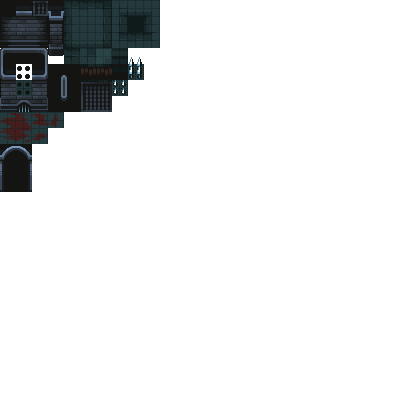
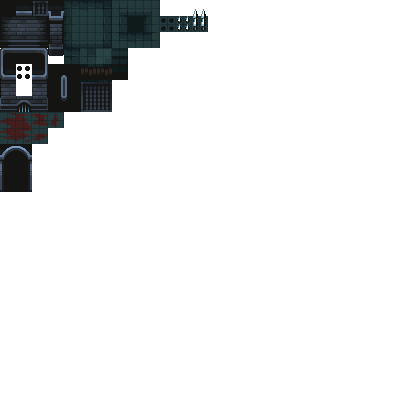
Adds traps

Changed region(s): [[0.39, 0.03, 0.54, 0.09], [0.27, 0.15, 0.36, 0.24], [0.03, 0.18, 0.09, 0.24]]

diff --git a/src/js/level/levels.js b/src/js/level/levels.js
@@ -11,7 +11,10 @@ const levels = [{
   height: 30,
 
   player: {x: 60, y: 400},
-  enemies: [{x: 48, y: 80}, {x: 400, y: 96}, {x: 150, y: 262 }, {x: 416, y: 336 }],
+  enemies: [{x: 48, y: 80}, {x: 400, y: 88}, {x: 160, y: 224 }, {x: 416, y: 336 }],
+  traps: [{x: 48, y: 192}, {x: 64, y: 192}, {x: 80, y: 192},
+          {x: 48, y: 304}, {x: 64, y: 304}, {x: 80, y: 304}
+  ],
   sx: 0,
   sy: 210,
 
@@ -23,21 +26,21 @@ const levels = [{
       0, 0, 0, 0, 0, 0, 0, 0, 0, 0, 0, 0, 0, 0, 0, 0, 0, 0, 0, 0, 0, 0, 0, 0, 0, 0, 0, 0, 0, 0,
       0, 0, 0, 0, 0, 0, 0, 0, 0, 0, 0, 0, 0, 0, 0, 0, 0, 0, 0, 0, 0, 0, 0, 0, 0, 0, 0, 0, 0, 0,
       0, 0, 0, 0, 0, 0, 0, 0, 0, 0, 0, 0, 0, 0, 0, 0, 0, 0, 0, 0, 0, 0, 0, 0, 0, 0, 0, 0, 0, 0,
-      0, 0, 0, 0, 0, 0, 0, 0, 0, 0, 0, 0, 0, 0, 0, 0, 76, 77, 78, 0, 0, 0, 0, 0, 0, 0, 0, 0, 0, 0,
-      0, 0, 0, 0, 0, 0, 0, 0, 0, 0, 0, 0, 0, 0, 0, 0, 101, 2, 103, 0, 0, 0, 0, 0, 0, 0, 0, 0, 0, 0,
+      0, 0, 0, 0, 0, 0, 0, 0, 0, 0, 0, 0, 0, 0, 0, 0, 0, 0, 0, 0, 0, 0, 0, 0, 0, 0, 0, 0, 0, 0,
+      0, 0, 0, 0, 0, 0, 0, 0, 0, 0, 0, 0, 0, 0, 0, 0, 0, 0, 76, 77, 78, 0, 0, 0, 0, 0, 0, 0, 0, 0,
+      0, 0, 0, 0, 0, 0, 0, 0, 0, 0, 0, 0, 0, 0, 0, 0, 0, 0, 101, 2, 103, 0, 0, 0, 0, 0, 0, 0, 0, 0,
       0, 0, 0, 0, 0, 0, 0, 0, 0, 0, 0, 0, 0, 0, 0, 0, 0, 0, 0, 0, 0, 0, 0, 0, 0, 0, 0, 0, 0, 0,
       0, 0, 0, 0, 0, 0, 0, 0, 0, 0, 0, 0, 0, 0, 0, 0, 0, 0, 0, 0, 0, 0, 0, 0, 0, 0, 0, 0, 0, 0,
       0, 0, 0, 0, 0, 0, 0, 0, 0, 0, 0, 0, 0, 0, 0, 0, 0, 0, 0, 0, 0, 0, 0, 0, 0, 0, 0, 0, 0, 0,
       0, 0, 0, 0, 0, 0, 0, 0, 0, 0, 0, 0, 0, 0, 0, 0, 0, 0, 0, 0, 0, 0, 0, 0, 0, 0, 0, 0, 0, 0,
-      0, 0, 0, 0, 0, 0, 0, 0, 0, 0, 0, 0, 0, 0, 0, 0, 76, 77, 78, 0, 0, 0, 0, 0, 0, 0, 0, 0, 0, 0,
-      0, 0, 0, 0, 0, 0, 0, 0, 0, 0, 0, 0, 0, 0, 0, 0, 101, 2, 103, 0, 0, 0, 0, 0, 0, 0, 0, 0, 0, 0,
+      0, 0, 0, 0, 0, 0, 0, 0, 0, 0, 0, 0, 0, 0, 0, 0, 0, 0, 76, 77, 78, 0, 0, 0, 0, 0, 0, 0, 0, 0,
+      0, 0, 0, 0, 0, 0, 0, 0, 0, 0, 0, 0, 0, 0, 0, 0, 0, 0, 101, 2, 103, 0, 0, 0, 0, 0, 0, 0, 0, 0,
       0, 0, 0, 0, 0, 0, 0, 0, 0, 0, 0, 0, 0, 0, 0, 0, 0, 0, 0, 0, 0, 0, 0, 0, 0, 0, 0, 0, 0, 0,
       0, 0, 0, 0, 0, 0, 0, 0, 0, 0, 0, 0, 0, 0, 0, 0, 0, 0, 0, 0, 0, 0, 0, 0, 0, 0, 0, 0, 0, 0,
       0, 0, 0, 0, 0, 0, 0, 0, 0, 0, 0, 0, 0, 0, 0, 0, 0, 0, 0, 0, 0, 0, 0, 0, 0, 0, 0, 0, 0, 0,
       0, 0, 0, 0, 0, 0, 0, 0, 0, 0, 0, 0, 0, 0, 0, 0, 0, 0, 0, 0, 0, 0, 0, 0, 0, 0, 0, 0, 0, 0,
-      0, 0, 0, 0, 0, 0, 0, 0, 0, 0, 0, 0, 0, 0, 0, 0, 76, 77, 78, 0, 0, 0, 0, 0, 0, 0, 0, 0, 0, 0,
-      0, 0, 0, 0, 0, 0, 0, 0, 0, 0, 0, 0, 0, 0, 0, 0, 101, 2, 103, 0, 0, 0, 0, 0, 0, 0, 0, 0, 0, 0,
-      0, 0, 0, 0, 0, 0, 0, 0, 0, 0, 0, 0, 0, 0, 0, 0, 0, 0, 0, 0, 0, 0, 0, 0, 0, 0, 0, 0, 0, 0,
+      0, 0, 0, 0, 0, 0, 0, 0, 0, 0, 0, 0, 0, 0, 0, 0, 0, 0, 76, 77, 78, 0, 0, 0, 0, 0, 0, 0, 0, 0,
+      0, 0, 0, 0, 0, 0, 0, 0, 0, 0, 0, 0, 0, 0, 0, 0, 0, 0, 101, 2, 103, 0, 0, 0, 0, 0, 0, 0, 0, 0,
       0, 0, 0, 0, 0, 0, 0, 0, 0, 0, 0, 0, 0, 0, 0, 0, 0, 0, 0, 0, 0, 0, 0, 0, 0, 0, 0, 0, 0, 0,
       0, 0, 0, 0, 0, 0, 0, 0, 0, 0, 0, 0, 0, 0, 0, 0, 0, 0, 0, 0, 0, 0, 0, 0, 0, 0, 0, 0, 0, 0,
       0, 0, 0, 0, 0, 0, 0, 0, 0, 0, 0, 0, 0, 0, 0, 0, 0, 0, 0, 0, 0, 0, 0, 0, 0, 0, 0, 0, 0, 0,
@@ -56,24 +59,24 @@ const levels = [{
       0, 0, 0, 0, 0, 0, 0, 0, 0, 0, 0, 0, 0, 0, 0, 0, 0, 0, 0, 0, 0, 0, 0, 0, 0, 0, 0, 0, 0, 0,
       0, 5, 6, 6, 6, 6, 6, 6, 7, 0, 0, 0, 5, 6, 6, 6, 6, 6, 6, 6, 6, 6, 6, 6, 6, 6, 6, 6, 7, 0,
       0, 30, 31, 31, 31, 31, 31, 31, 58, 6, 6, 6, 60, 178, 31, 31, 31, 31, 31, 31, 31, 31, 31, 31, 31, 31, 31, 31, 32, 0,
-      0, 30, 31, 31, 31, 31, 31, 31, 31, 179, 31, 31, 31, 31, 31, 31, 31, 0, 31, 31, 31, 31, 31, 31, 31, 31, 31, 31, 32, 0,
-      0, 30, 31, 31, 31, 31, 31, 31, 31, 31, 31, 31, 31, 31, 31, 31, 0, 0, 0, 31, 31, 31, 31, 31, 176, 131, 132, 31, 32, 0,
-      0, 30, 31, 31, 31, 31, 31, 31, 31, 31, 31, 31, 31, 31, 31, 32, 0, 0, 0, 30, 31, 31, 31, 31, 201, 156, 157, 31, 32, 0,
-      0, 30, 31, 31, 31, 31, 31, 31, 8, 56, 56, 56, 10, 31, 31, 32, 0, 0, 0, 30, 31, 31, 31, 31, 31, 31, 178, 31, 32, 0,
-      0, 30, 31, 31, 31, 31, 31, 31, 32, 34, 0, 34, 30, 31, 31, 58, 6, 6, 6, 60, 31, 31, 31, 31, 31, 179, 31, 31, 32, 0,
-      0, 55, 56, 10, 31, 8, 56, 56, 57, 0, 0, 0, 30, 31, 31, 31, 31, 31, 31, 31, 31, 31, 8, 56, 56, 56, 56, 56, 57, 0,
-      0, 0, 34, 30, 31, 32, 34, 0, 0, 0, 0, 0, 30, 31, 31, 31, 31, 0, 31, 31, 31, 31, 32, 34, 0, 0, 0, 0, 0, 0,
-      0, 0, 0, 30, 31, 32, 0, 0, 0, 0, 0, 0, 30, 31, 31, 31, 0, 0, 0, 31, 31, 31, 32, 0, 0, 0, 0, 0, 0, 0,
-      0, 0, 0, 30, 31, 32, 0, 0, 0, 0, 0, 0, 30, 31, 31, 32, 0, 0, 0, 30, 31, 31, 32, 0, 0, 0, 0, 0, 0, 0,
-      0, 0, 0, 30, 31, 32, 0, 0, 0, 0, 0, 0, 30, 31, 31, 32, 0, 0, 0, 30, 31, 31, 32, 0, 0, 0, 0, 0, 0, 0,
-      0, 0, 0, 30, 31, 32, 0, 0, 0, 0, 0, 0, 30, 31, 31, 58, 6, 6, 6, 60, 31, 31, 32, 0, 0, 0, 0, 0, 0, 0,
-      0, 0, 0, 30, 31, 32, 0, 0, 0, 5, 6, 6, 60, 31, 31, 31, 31, 31, 31, 31, 31, 31, 32, 0, 0, 0, 0, 0, 0, 0,
-      0, 0, 0, 30, 31, 32, 0, 0, 0, 30, 31, 31, 31, 31, 31, 31, 31, 0, 31, 31, 31, 31, 32, 0, 0, 0, 0, 0, 0, 0,
-      0, 0, 0, 30, 31, 32, 0, 0, 0, 55, 56, 56, 10, 31, 31, 31, 0, 0, 0, 31, 31, 31, 32, 0, 0, 0, 0, 0, 0, 0,
-      0, 0, 0, 30, 31, 32, 0, 0, 0, 0, 0, 34, 30, 31, 31, 32, 0, 0, 0, 30, 31, 31, 32, 0, 0, 0, 0, 0, 0, 0,
-      0, 0, 0, 30, 31, 32, 0, 0, 0, 0, 0, 0, 30, 31, 31, 32, 0, 0, 0, 30, 31, 31, 58, 6, 6, 6, 6, 6, 7, 0,
-      0, 0, 0, 30, 31, 32, 0, 0, 0, 0, 0, 0, 30, 31, 31, 58, 6, 6, 6, 60, 31, 31, 31, 31, 31, 203, 31, 31, 32, 0,
-      0, 0, 0, 30, 31, 32, 0, 0, 0, 0, 0, 0, 30, 31, 31, 31, 31, 31, 31, 31, 31, 31, 31, 31, 31, 31, 178, 31, 32, 0,
+      0, 30, 31, 31, 31, 31, 31, 31, 31, 179, 31, 31, 31, 31, 31, 31, 31, 31, 31, 31, 31, 31, 31, 31, 31, 31, 31, 31, 32, 0,
+      0, 30, 31, 31, 31, 31, 31, 31, 31, 31, 31, 31, 31, 31, 31, 31, 31, 31, 31, 31, 31, 31, 31, 31, 176, 131, 132, 31, 32, 0,
+      0, 30, 31, 31, 31, 31, 31, 31, 31, 31, 31, 31, 31, 31, 31, 31, 31, 31, 31, 31, 31, 31, 31, 31, 201, 156, 157, 31, 32, 0,
+      0, 30, 31, 31, 31, 31, 31, 31, 31, 31, 31, 31, 31, 31, 31, 31, 31, 32, 0, 0, 0, 30, 31, 31, 31, 31, 178, 31, 32, 0,
+      0, 30, 31, 31, 31, 31, 31, 31, 31, 31, 31, 31, 31, 31, 31, 31, 31, 32, 0, 0, 0, 30, 31, 31, 31, 179, 31, 31, 32, 0,
+      0, 55, 56, 10, 31, 8, 56, 56, 56, 10, 31, 31, 31, 31, 31, 31, 31, 58, 6, 6, 6, 60, 31, 31, 31, 8, 56, 56, 57, 0,
+      0, 0, 34, 30, 31, 32, 34, 0, 34, 30, 31, 31, 31, 31, 31, 31, 31, 31, 31, 31, 31, 31, 31, 31, 31, 32, 34, 0, 0, 0,
+      0, 0, 0, 30, 31, 32, 0, 0, 0, 30, 31, 31, 31, 31, 31, 31, 31, 31, 31, 31, 31, 31, 31, 31, 31, 32, 0, 0, 0, 0,
+      0, 0, 0, 30, 31, 32, 0, 0, 0, 30, 31, 31, 31, 31, 31, 31, 31, 31, 31, 31, 31, 31, 31, 31, 31, 32, 0, 0, 0, 0,
+      0, 0, 0, 30, 31, 32, 0, 0, 0, 30, 31, 31, 31, 31, 31, 31, 31, 32, 0, 0, 0, 30, 31, 31, 31, 32, 0, 0, 0, 0,
+      0, 0, 0, 30, 31, 32, 0, 0, 0, 30, 178, 31, 31, 31, 31, 31, 31, 32, 0, 0, 0, 30, 31, 31, 31, 32, 0, 0, 0, 0,
+      0, 0, 0, 30, 31, 32, 0, 0, 0, 55, 56, 56, 10, 31, 31, 31, 31, 58, 6, 6, 6, 60, 31, 31, 31, 32, 0, 0, 0, 0,
+      0, 0, 0, 30, 31, 32, 0, 0, 0, 0, 0, 34, 30, 31, 31, 31, 31, 31, 31, 31, 31, 31, 31, 31, 31, 32, 0, 0, 0, 0,
+      0, 0, 0, 30, 31, 32, 0, 0, 0, 0, 0, 0, 30, 31, 31, 31, 31, 31, 31, 31, 31, 31, 31, 31, 31, 32, 0, 0, 0, 0,
+      0, 0, 0, 30, 31, 32, 0, 0, 0, 0, 0, 0, 30, 31, 31, 31, 31, 31, 31, 31, 31, 31, 31, 31, 31, 32, 0, 0, 0, 0,
+      0, 0, 0, 30, 31, 32, 0, 0, 0, 0, 0, 0, 30, 31, 31, 31, 31, 32, 0, 0, 0, 30, 31, 31, 31, 58, 6, 6, 7, 0,
+      0, 0, 0, 30, 31, 32, 0, 0, 0, 0, 0, 0, 30, 31, 31, 31, 31, 32, 0, 0, 0, 30, 31, 31, 31, 203, 31, 31, 32, 0,
+      0, 0, 0, 30, 31, 32, 0, 0, 0, 0, 0, 0, 30, 31, 31, 31, 31, 58, 6, 6, 6, 60, 31, 31, 31, 31, 178, 31, 32, 0,
       0, 5, 6, 60, 179, 58, 6, 7, 0, 0, 0, 0, 30, 31, 31, 31, 31, 31, 31, 31, 31, 31, 31, 31, 31, 31, 31, 31, 32, 0,
       0, 30, 176, 177, 31, 31, 31, 32, 0, 0, 0, 0, 30, 31, 31, 31, 31, 31, 31, 31, 31, 31, 31, 31, 31, 31, 31, 31, 32, 0,
       0, 30, 201, 202, 31, 31, 31, 32, 0, 0, 0, 0, 0, 0, 31, 31, 31, 31, 31, 31, 31, 31, 31, 31, 31, 31, 31, 31, 32, 0,
@@ -91,21 +94,21 @@ const levels = [{
       129, 0, 0, 0, 0, 0, 0, 0, 0, 0, 0, 0, 0, 0, 0, 0, 0, 0, 0, 0, 0, 0, 0, 0, 0, 0, 0, 0, 0, 130,
       129, 0, 0, 0, 0, 0, 0, 0, 0, 0, 0, 0, 0, 0, 0, 0, 0, 0, 0, 0, 0, 0, 0, 0, 0, 0, 0, 0, 0, 130,
       129, 0, 0, 0, 0, 0, 0, 0, 0, 0, 0, 0, 0, 0, 0, 0, 0, 0, 0, 0, 0, 0, 0, 0, 0, 0, 0, 0, 0, 130,
-      129, 0, 0, 0, 0, 0, 0, 0, 0, 0, 0, 0, 0, 0, 0, 0, 126, 27, 128, 0, 0, 0, 0, 0, 0, 0, 0, 0, 0, 130,
-      129, 0, 0, 0, 0, 0, 0, 0, 0, 0, 0, 0, 0, 0, 0, 0, 151, 52, 153, 0, 0, 0, 0, 0, 0, 0, 0, 0, 0, 130,
-      129, 0, 0, 0, 0, 0, 0, 0, 0, 76, 77, 78, 0, 0, 0, 0, 0, 0, 0, 0, 0, 0, 0, 0, 0, 0, 0, 0, 0, 130,
-      129, 0, 0, 0, 0, 0, 0, 0, 0, 130, 0, 129, 0, 0, 0, 0, 0, 0, 0, 0, 0, 0, 0, 0, 0, 0, 0, 0, 0, 130,
-      154, 77, 78, 0, 0, 0, 76, 77, 77, 155, 0, 129, 0, 0, 0, 0, 0, 0, 0, 0, 0, 0, 0, 76, 77, 77, 77, 77, 77, 155,
-      0, 0, 129, 0, 0, 0, 130, 0, 0, 0, 0, 129, 0, 0, 0, 0, 0, 0, 0, 0, 0, 0, 0, 130, 0, 0, 0, 0, 0, 0,
-      0, 0, 129, 0, 0, 0, 130, 0, 104, 2, 2, 103, 0, 0, 0, 0, 126, 27, 128, 0, 0, 0, 0, 130, 0, 0, 0, 0, 0, 0,
-      0, 0, 129, 0, 0, 0, 130, 0, 129, 26, 27, 128, 0, 0, 0, 0, 151, 52, 153, 0, 0, 0, 0, 130, 0, 0, 0, 0, 0, 0,
-      0, 0, 129, 0, 0, 0, 130, 0, 129, 51, 52, 153, 0, 0, 0, 0, 0, 0, 0, 0, 0, 0, 0, 130, 0, 0, 0, 0, 0, 0,
-      0, 0, 129, 0, 0, 0, 130, 0, 129, 0, 0, 0, 0, 0, 0, 0, 0, 0, 0, 0, 0, 0, 0, 130, 0, 0, 0, 0, 0, 0,
-      0, 0, 129, 0, 0, 0, 130, 0, 129, 0, 0, 0, 0, 0, 0, 0, 0, 0, 0, 0, 0, 0, 0, 101, 2, 2, 2, 2, 2, 105,
-      0, 0, 129, 0, 0, 0, 130, 0, 129, 0, 0, 0, 0, 0, 0, 0, 0, 0, 0, 0, 0, 0, 0, 126, 27, 27, 27, 27, 28, 130,
-      0, 0, 129, 0, 0, 0, 130, 0, 154, 77, 77, 78, 0, 0, 0, 0, 126, 27, 128, 0, 0, 0, 0, 151, 52, 52, 52, 52, 53, 130,
-      104, 2, 103, 0, 0, 0, 101, 2, 105, 0, 0, 129, 0, 0, 0, 0, 151, 52, 153, 0, 0, 0, 0, 0, 0, 0, 0, 0, 0, 130,
-      129, 26, 128, 0, 0, 0, 126, 28, 130, 0, 0, 129, 0, 0, 0, 0, 0, 0, 0, 0, 0, 0, 0, 0, 0, 0, 0, 0, 0, 130,
+      129, 0, 0, 0, 0, 0, 0, 0, 0, 0, 0, 0, 0, 0, 0, 0, 0, 0, 0, 0, 0, 0, 0, 0, 0, 0, 0, 0, 0, 130,
+      129, 0, 0, 0, 0, 0, 0, 0, 0, 0, 0, 0, 0, 0, 0, 0, 0, 0, 126, 27, 128, 0, 0, 0, 0, 0, 0, 0, 0, 130,
+      129, 0, 0, 0, 0, 0, 0, 0, 0, 0, 0, 0, 0, 0, 0, 0, 0, 0, 151, 52, 153, 0, 0, 0, 0, 0, 0, 0, 0, 130,
+      129, 0, 0, 0, 0, 0, 0, 0, 0, 0, 0, 0, 0, 0, 0, 0, 0, 0, 0, 0, 0, 0, 0, 0, 0, 0, 0, 0, 0, 130,
+      154, 77, 78, 0, 0, 0, 76, 77, 78, 0, 0, 0, 0, 0, 0, 0, 0, 0, 0, 0, 0, 0, 0, 0, 0, 0, 76, 77, 77, 155,
+      0, 0, 129, 0, 0, 0, 130, 0, 129, 0, 0, 0, 0, 0, 0, 0, 0, 0, 0, 0, 0, 0, 0, 0, 0, 0, 130, 0, 0, 0,
+      0, 0, 129, 0, 0, 0, 130, 0, 129, 0, 0, 0, 0, 0, 0, 0, 0, 0, 0, 0, 0, 0, 0, 0, 0, 0, 130, 0, 0, 0,
+      0, 0, 129, 0, 0, 0, 130, 0, 129, 0, 0, 0, 0, 0, 0, 0, 0, 0, 126, 27, 128, 0, 0, 0, 0, 0, 130, 0, 0, 0,
+      0, 0, 129, 0, 0, 0, 130, 0, 129, 0, 0, 0, 0, 0, 0, 0, 0, 0, 151, 52, 153, 0, 0, 0, 0, 0, 130, 0, 0, 0,
+      0, 0, 129, 0, 0, 0, 130, 0, 129, 0, 0, 0, 0, 0, 0, 0, 0, 0, 0, 0, 0, 0, 0, 0, 0, 0, 130, 0, 0, 0,
+      0, 0, 129, 0, 0, 0, 130, 0, 154, 77, 77, 78, 0, 0, 0, 0, 0, 0, 0, 0, 0, 0, 0, 0, 0, 0, 101, 2, 2, 105,
+      0, 0, 129, 0, 0, 0, 130, 0, 0, 0, 0, 129, 0, 0, 0, 0, 0, 0, 0, 0, 0, 0, 0, 0, 0, 0, 126, 27, 28, 130,
+      0, 0, 129, 0, 0, 0, 130, 0, 0, 0, 0, 129, 0, 0, 0, 0, 0, 0, 0, 0, 0, 0, 0, 0, 0, 0, 151, 152, 53, 130,
+      104, 2, 103, 0, 0, 0, 101, 2, 105, 0, 0, 129, 0, 0, 0, 0, 0, 0, 126, 27, 128, 0, 0, 0, 0, 0, 0, 0, 0, 130,
+      129, 26, 128, 0, 0, 0, 126, 28, 130, 0, 0, 129, 0, 0, 0, 0, 0, 0, 151, 52, 153, 0, 0, 0, 0, 0, 0, 0, 0, 130,
       129, 51, 153, 0, 0, 0, 151, 53, 130, 0, 0, 129, 0, 0, 0, 0, 0, 0, 0, 0, 0, 0, 0, 0, 0, 0, 0, 0, 0, 130,
       129, 0, 0, 0, 0, 0, 0, 0, 130, 0, 0, 129, 0, 0, 0, 0, 0, 0, 0, 0, 0, 0, 0, 0, 0, 0, 0, 0, 0, 130,
       129, 0, 0, 0, 0, 0, 0, 0, 130, 0, 0, 129, 0, 0, 0, 0, 0, 0, 0, 0, 0, 0, 0, 0, 0, 0, 0, 0, 0, 130,
@@ -125,21 +128,21 @@ const levels = [{
       1, 0, 0, 0, 0, 0, 0, 0, 0, 0, 0, 0, 0, 0, 0, 0, 0, 0, 0, 0, 0, 0, 0, 0, 0, 0, 0, 0, 0, 1,
       1, 0, 0, 0, 0, 0, 0, 0, 0, 0, 0, 0, 0, 0, 0, 0, 0, 0, 0, 0, 0, 0, 0, 0, 0, 0, 0, 0, 0, 1,
       1, 0, 0, 0, 0, 0, 0, 0, 0, 0, 0, 0, 0, 0, 0, 0, 0, 0, 0, 0, 0, 0, 0, 0, 0, 0, 0, 0, 0, 1,
-      1, 0, 0, 0, 0, 0, 0, 0, 0, 0, 0, 0, 0, 0, 0, 0, 1, 1, 1, 0, 0, 0, 0, 0, 0, 0, 0, 0, 0, 1,
-      1, 0, 0, 0, 0, 0, 0, 0, 0, 0, 0, 0, 0, 0, 0, 0, 1, 1, 1, 0, 0, 0, 0, 0, 0, 0, 0, 0, 0, 1,
-      1, 0, 0, 0, 0, 0, 0, 0, 0, 1, 1, 1, 0, 0, 0, 0, 0, 0, 0, 0, 0, 0, 0, 0, 0, 0, 0, 0, 0, 1,
-      1, 0, 0, 0, 0, 0, 0, 0, 0, 1, 0, 1, 0, 0, 0, 0, 0, 0, 0, 0, 0, 0, 0, 0, 0, 0, 0, 0, 0, 1,
-      1, 1, 1, 0, 0, 0, 1, 1, 1, 1, 0, 1, 0, 0, 0, 0, 0, 0, 0, 0, 0, 0, 0, 1, 1, 1, 1, 1, 1, 1,
-      0, 0, 1, 0, 0, 0, 1, 0, 0, 0, 0, 1, 0, 0, 0, 0, 0, 0, 0, 0, 0, 0, 0, 1, 0, 0, 0, 0, 0, 0,
-      0, 0, 1, 0, 0, 0, 1, 0, 0, 0, 0, 1, 0, 0, 0, 0, 1, 1, 1, 0, 0, 0, 0, 1, 0, 0, 0, 0, 0, 0,
-      0, 0, 1, 0, 0, 0, 1, 0, 0, 0, 0, 1, 0, 0, 0, 0, 1, 1, 1, 0, 0, 0, 0, 1, 0, 0, 0, 0, 0, 0,
-      0, 0, 1, 0, 0, 0, 1, 0, 1, 1, 1, 1, 0, 0, 0, 0, 0, 0, 0, 0, 0, 0, 0, 1, 0, 0, 0, 0, 0, 0,
-      0, 0, 1, 0, 0, 0, 1, 0, 1, 0, 0, 0, 0, 0, 0, 0, 0, 0, 0, 0, 0, 0, 0, 1, 0, 0, 0, 0, 0, 0,
-      0, 0, 1, 0, 0, 0, 1, 0, 1, 0, 0, 0, 0, 0, 0, 0, 0, 0, 0, 0, 0, 0, 0, 1, 0, 0, 0, 0, 0, 0,
-      0, 0, 1, 0, 0, 0, 1, 0, 1, 0, 0, 0, 0, 0, 0, 0, 0, 0, 0, 0, 0, 0, 0, 1, 0, 0, 0, 0, 0, 0,
-      0, 0, 1, 0, 0, 0, 1, 0, 1, 1, 1, 1, 0, 0, 0, 0, 1, 1, 1, 0, 0, 0, 0, 1, 1, 1, 1, 1, 1, 1,
-      0, 0, 1, 0, 0, 0, 1, 0, 0, 0, 0, 1, 0, 0, 0, 0, 1, 1, 1, 0, 0, 0, 0, 0, 0, 0, 0, 0, 0, 1,
-      0, 0, 1, 0, 0, 0, 1, 0, 0, 0, 0, 1, 0, 0, 0, 0, 0, 0, 0, 0, 0, 0, 0, 0, 0, 0, 0, 0, 0, 1,
+      1, 0, 0, 0, 0, 0, 0, 0, 0, 0, 0, 0, 0, 0, 0, 0, 0, 0, 0, 0, 0, 0, 0, 0, 0, 0, 0, 0, 0, 1,
+      1, 0, 0, 0, 0, 0, 0, 0, 0, 0, 0, 0, 0, 0, 0, 0, 0, 0, 1, 1, 1, 0, 0, 0, 0, 0, 0, 0, 0, 1,
+      1, 0, 0, 0, 0, 0, 0, 0, 0, 0, 0, 0, 0, 0, 0, 0, 0, 0, 1, 1, 1, 0, 0, 0, 0, 0, 0, 0, 0, 1,
+      1, 0, 0, 0, 0, 0, 0, 0, 0, 0, 0, 0, 0, 0, 0, 0, 0, 0, 0, 0, 0, 0, 0, 0, 0, 0, 0, 0, 0, 1,
+      1, 1, 1, 0, 0, 0, 1, 1, 1, 0, 0, 0, 0, 0, 0, 0, 0, 0, 0, 0, 0, 0, 0, 0, 0, 0, 1, 1, 1, 1,
+      0, 0, 1, 0, 0, 0, 1, 0, 1, 0, 0, 0, 0, 0, 0, 0, 0, 0, 0, 0, 0, 0, 0, 0, 0, 0, 1, 0, 0, 0,
+      0, 0, 1, 0, 0, 0, 1, 0, 1, 0, 0, 0, 0, 0, 0, 0, 0, 0, 0, 0, 0, 0, 0, 0, 0, 0, 1, 0, 0, 0,
+      0, 0, 1, 0, 0, 0, 1, 0, 1, 0, 0, 0, 0, 0, 0, 0, 0, 0, 1, 1, 1, 0, 0, 0, 0, 0, 1, 0, 0, 0,
+      0, 0, 1, 0, 0, 0, 1, 0, 1, 0, 0, 0, 0, 0, 0, 0, 0, 0, 1, 1, 1, 0, 0, 0, 0, 0, 1, 0, 0, 0,
+      0, 0, 1, 0, 0, 0, 1, 0, 1, 0, 0, 0, 0, 0, 0, 0, 0, 0, 0, 0, 0, 0, 0, 0, 0, 0, 1, 0, 0, 0,
+      0, 0, 1, 0, 0, 0, 1, 0, 1, 1, 1, 1, 0, 0, 0, 0, 0, 0, 0, 0, 0, 0, 0, 0, 0, 0, 1, 0, 0, 0,
+      0, 0, 1, 0, 0, 0, 1, 0, 0, 0, 0, 1, 0, 0, 0, 0, 0, 0, 0, 0, 0, 0, 0, 0, 0, 0, 1, 0, 0, 0,
+      0, 0, 1, 0, 0, 0, 1, 0, 0, 0, 0, 1, 0, 0, 0, 0, 0, 0, 0, 0, 0, 0, 0, 0, 0, 0, 1, 1, 1, 1,
+      0, 0, 1, 0, 0, 0, 1, 0, 0, 0, 0, 1, 0, 0, 0, 0, 0, 0, 1, 1, 1, 0, 0, 0, 0, 0, 0, 0, 0, 1,
+      0, 0, 1, 0, 0, 0, 1, 0, 0, 0, 0, 1, 0, 0, 0, 0, 0, 0, 1, 1, 1, 0, 0, 0, 0, 0, 0, 0, 0, 1,
       1, 1, 1, 0, 0, 0, 1, 1, 1, 0, 0, 1, 0, 0, 0, 0, 0, 0, 0, 0, 0, 0, 0, 0, 0, 0, 0, 0, 0, 1,
       1, 0, 0, 0, 0, 0, 0, 0, 1, 0, 0, 1, 0, 0, 0, 0, 0, 0, 0, 0, 0, 0, 0, 0, 0, 0, 0, 0, 0, 1,
       1, 0, 0, 0, 0, 0, 0, 0, 1, 0, 0, 1, 0, 0, 0, 0, 0, 0, 0, 0, 0, 0, 0, 0, 0, 0, 0, 0, 0, 1,
@@ -196,8 +199,19 @@ const levels = [{
   width: 80,
   height: 50,
 
-  player: {x: 60, y: 60},
-  enemies: [{x: 224, y: 208}, {x: 96, y: 640 }, {x: 720, y: 640 }, {x: 528, y: 368 }, {x: 720, y: 240 }, {x: 528, y: 96 }, {x: 1184, y: 80 }, {x: 992, y: 704 }, {x: 992, y: 368 }, {x: 1200, y: 624 }],
+  player: {x: 48, y: 72},
+  enemies: [{x: 60, y: 240}, {x: 224, y: 208}, {x: 96, y: 640 }, {x: 720, y: 640 }, {x: 528, y: 368 }, {x: 720, y: 240 }, {x: 528, y: 96 }, {x: 1184, y: 80 }, {x: 992, y: 704 }, {x: 992, y: 400 }, {x: 1200, y: 624 }, {x: 1200, y: 270 }, {x: 1200, y: 460 }],
+  traps: [
+    {x: 112, y: 352}, {x: 128, y: 352}, {x: 144, y: 352}, {x: 160, y: 352}, {x: 176, y: 352}, {x: 192, y: 352},
+    {x: 112, y: 432}, {x: 128, y: 432}, {x: 144, y: 432}, {x: 160, y: 432}, {x: 176, y: 432}, {x: 192, y: 432},
+    {x: 344, y: 576}, {x: 344, y: 592}, {x: 344, y: 608}, {x: 344, y: 624}, {x: 344, y: 640}, {x: 344, y: 656},
+    {x: 440, y: 576}, {x: 440, y: 592}, {x: 440, y: 608}, {x: 440, y: 624}, {x: 440, y: 640}, {x: 440, y: 656},
+    {x: 960, y: 176}, {x: 976, y: 176}, {x: 992, y: 176}, {x: 1008, y: 176}, {x: 1024, y: 176}, {x: 1040, y: 176}, {x: 1056, y: 176},
+    {x: 960, y: 256}, {x: 976, y: 256}, {x: 992, y: 256}, {x: 1008, y: 256}, {x: 1024, y: 256}, {x: 1040, y: 256}, {x: 1056, y: 256},
+    {x: 960, y: 336}, {x: 976, y: 336}, {x: 992, y: 336}, {x: 1008, y: 336}, {x: 1024, y: 336}, {x: 1040, y: 336}, {x: 1056, y: 336},
+    {x: 960, y: 496}, {x: 976, y: 496}, {x: 992, y: 496}, {x: 1008, y: 496}, {x: 1024, y: 496}, {x: 1040, y: 496}, {x: 1056, y: 496},
+    {x: 960, y: 576}, {x: 976, y: 576}, {x: 992, y: 576}, {x: 1008, y: 576}, {x: 1024, y: 576}, {x: 1040, y: 576}, {x: 1056, y: 576},
+  ],
   sx: 0,
   sy: 0,
 

diff --git a/src/js/index.js b/src/js/index.js
@@ -15,8 +15,8 @@ window.onload = async () => {
   const game = new Game(canvas, context, images);
 
   const loop = GameLoop({
-    async update() {
-      game.scene.customUpdate();
+    async update(dt) {
+      game.scene.customUpdate(dt);
       for (const sprite of game.scene.objects) {
         if (sprite.type == 'player') {
           if (game.tileEngine.layerCollidesWith('stairs', sprite)) {
@@ -24,15 +24,17 @@ window.onload = async () => {
           }
         }
         
-        let hasCollidedWithObstacle;
-        if (sprite.collisionBox) {
-          hasCollidedWithObstacle = game.tileEngine.layerCollidesWith('collision', sprite.collisionBox);
-        } else {
-          hasCollidedWithObstacle = game.tileEngine.layerCollidesWith('collision', sprite);
-        }
-  
-        if (hasCollidedWithObstacle) {
-          sprite.handleCollision();
+        if (sprite.type == 'player' || sprite.type == 'enemy') {
+          let hasCollidedWithObstacle;
+          if (sprite.collisionBox) {
+            hasCollidedWithObstacle = game.tileEngine.layerCollidesWith('collision', sprite.collisionBox);
+          } else {
+            hasCollidedWithObstacle = game.tileEngine.layerCollidesWith('collision', sprite);
+          }
+    
+          if (hasCollidedWithObstacle) {
+            sprite.handleCollision();
+          }
         }
   
         /* Sync the scene camera with the tile engine camera. The tileEngine
@@ -48,6 +50,12 @@ window.onload = async () => {
         */
         game.scene.camera.x = game.tileEngine.sx + canvas.width / 2;
         game.scene.camera.y = game.tileEngine.sy + canvas.height / 2;
+
+        if (sprite.type == 'trap' && sprite.state == 'triggered') {
+          if (collides(game.player.collisionBox, sprite.collisionBox)) {
+            game.player.ttl = 0;
+          }
+        }
   
         /* TODO: Optimize? We could track additional entity references to
           avoid duplicated entity checks. For example instead of check all
@@ -84,8 +92,8 @@ window.onload = async () => {
   
       game.tileEngine.renderLayer('ground');
       game.tileEngine.renderLayer('collision');
-      game.light.render();
       game.scene.render();
+      game.light.render();
       game.tileEngine.renderLayer('foreground');
       for (const hudObj of game.scene.hudObjects) {
         hudObj.render();

diff --git a/src/js/entities/trap.js b/src/js/entities/trap.js
@@ -1,0 +1,63 @@
+import { Sprite, SpriteSheet } from 'kontra';
+
+function createTrap(config) {
+  const spriteSheet = SpriteSheet({
+    image: config.tileSheet,
+    frameWidth: 16,
+    frameHeight: 32,
+    animations: {
+      disarmed: {
+        frames: '10',
+        frameRate: 4
+      },
+      armed: {
+        frames: '11',
+        frameRate: 4
+      },
+      triggered: {
+        frames: '12',
+        frameRate: 4
+      }
+    }
+  });
+
+  const trap = Sprite({
+    type: 'trap',
+    x: config.x,
+    y: config.y,
+    height: 32,
+    width: 16,
+    state: 'disarmed',
+    armedStart: 2,
+    triggeredStart: 2.75,
+    tridderedEnd: 3.5,
+    animations: spriteSheet.animations,
+    dt: 0,
+    update(dt) {
+      this.dt += dt;
+      if (this.dt < this.armedStart) {
+        this.state = 'disarmed';
+      } else if (this.armedStart <= this.dt && this.dt < this.triggeredStart ) {
+        this.state = 'armed';
+      } else if (this.triggeredStart <= this.dt && this.dt < this.tridderedEnd) {
+        this.state = 'triggered';
+      } else if (this.dt >= this.tridderedEnd) {
+        this.dt = 0;
+      }
+
+      this.playAnimation(this.state);
+      this.advance();
+    }
+  })
+
+  trap.collisionBox = {
+    x: config.x,
+    y: config.y + trap.height - 23,
+    width: 16,
+    height: 23
+  };
+
+  return trap;
+}
+
+export { createTrap };

diff --git a/src/js/game.js b/src/js/game.js
@@ -4,6 +4,7 @@ import { Wireframe } from './level/wireframe';
 import { Light } from './entities/light';
 import { createPlayer } from './entities/player';
 import { createEnemy } from './entities/enemy';
+import { createTrap } from './entities/trap';
 import { renderAmmoCount } from './hud/ammo';
 import { levels } from './level/levels';
 import { gameWin } from './menu';
@@ -33,6 +34,14 @@ class Game {
     
     const tileEngine = createTileEngine(this.tilesheetImg, levelData);
     this.syncCameras(scene, tileEngine);
+
+    for (const trap of levelData.traps) {
+      scene.add(createTrap({
+        x: trap.x,
+        y: trap.y,
+        tileSheet: this.tilesheetImg
+      }));
+    }
 
     const player = createPlayer(scene, tileEngine, this.canvas, this.playerImg, levelData.player, this.playerAmmo);
     scene.add(player);

diff --git a/src/js/entities/enemy.js b/src/js/entities/enemy.js
@@ -1,5 +1,5 @@
-import { angleToTarget, Sprite, SpriteSheet } from 'kontra';
-import { intersect, distanceToTarget } from '../util/util';
+import { Sprite, SpriteSheet } from 'kontra';
+import { intersect, angleToTarget, distanceToTarget } from '../util/util';
 
 function createEnemy(config) {
   const spriteSheet = SpriteSheet({

diff --git a/src/js/entities/player.js b/src/js/entities/player.js
@@ -67,6 +67,7 @@ function createPlayer(scene, tileEngine, canvas, playerSheet, playerLoc, ammo) {
         this.ammo -= 1;
         this.ableToShoot = false;
         const pointer = getPointer();
+        
         // Account for camera offset.
         pointer.x += tileEngine.sx;
         pointer.y += tileEngine.sy;

diff --git a/src/js/scene.js b/src/js/scene.js
@@ -9,9 +9,9 @@ function createScene(id) {
       const deadObjects = this.objects.filter(obj => !obj.isAlive());
       this.remove(deadObjects)
     },
-    customUpdate() {
+    customUpdate(dt) {
       this.removeDeadObjects();
-      this.update();
+      this.update(dt);
     }
   });
 }

diff --git a/src/js/entities/bullet.js b/src/js/entities/bullet.js
@@ -16,6 +16,9 @@ function createBullet(x, y, angle, width, height) {
     handleCollision() {
       //TODO: Add an animation.
       this.ttl = 0;
+    },
+    update() {
+      this.advance();
     }
   });
 }

diff --git a/src/js/entities/light.js b/src/js/entities/light.js
@@ -1,4 +1,4 @@
-import { angleToTarget, intersect, distanceToTarget } from "../util/util";
+import { angleToTarget, intersect } from "../util/util";
 
 class Light {
   constructor(config) {
